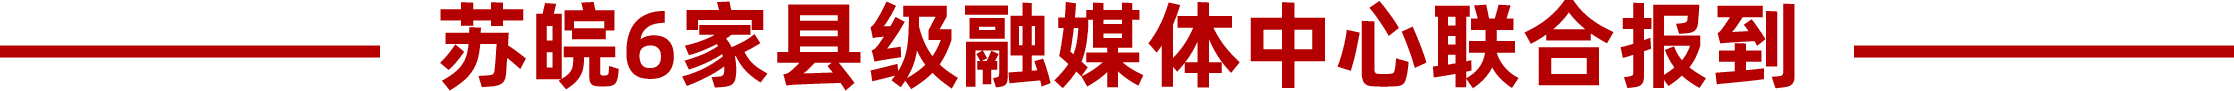
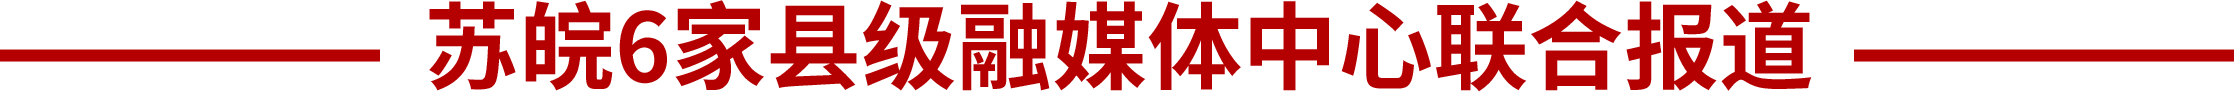
update

Changed region(s): [[0.0, 0.0, 1.0, 0.989], [0.556, 0.967, 0.5868, 0.989]]

diff --git a/h5-app/src/views/Page3.vue b/h5-app/src/views/Page3.vue
@@ -21,7 +21,7 @@
 
     <!-- 提示文字 -->
     <div class="tip-text" v-motion="tipMotion">
-      点击城市名片，开启探索之旅
+      点击城市名片，开启红色之旅
     </div>
 
     <!-- 城市展示区域 -->
@@ -251,6 +251,32 @@ const selectedCityData = ref<typeof citiesData[keyof typeof citiesData] | null>(
 
 
 
+// 动态导入poster图片
+const posterImages = {
+  'yizheng-1': new URL('@/assets/yz/04/video/仪征/1.png', import.meta.url).href,
+  'yizheng-2': new URL('@/assets/yz/04/video/仪征/2.png', import.meta.url).href,
+  'yizheng-3': new URL('@/assets/yz/04/video/仪征/3.png', import.meta.url).href,
+  'yizheng-4': new URL('@/assets/yz/04/video/仪征/4.png', import.meta.url).href,
+  'yizheng-5': new URL('@/assets/yz/04/video/仪征/5.png', import.meta.url).href,
+  'laian-1': new URL('@/assets/yz/04/video/来安/1.png', import.meta.url).href,
+  'laian-2': new URL('@/assets/yz/04/video/来安/2.png', import.meta.url).href,
+  'laian-3': new URL('@/assets/yz/04/video/来安/3.png', import.meta.url).href,
+  'liuhe-1': new URL('@/assets/yz/04/video/六合/1.png', import.meta.url).href,
+  'liuhe-2': new URL('@/assets/yz/04/video/六合/2.png', import.meta.url).href,
+  'liuhe-3': new URL('@/assets/yz/04/video/六合/3.png', import.meta.url).href,
+  'jinhu-1': new URL('@/assets/yz/04/video/金湖/1.png', import.meta.url).href,
+  'dingyuan-1': new URL('@/assets/yz/04/video/定远/1.png', import.meta.url).href,
+  'dingyuan-2': new URL('@/assets/yz/04/video/定远/2.png', import.meta.url).href,
+  'dingyuan-3': new URL('@/assets/yz/04/video/定远/3.png', import.meta.url).href,
+  'xuyi-1': new URL('@/assets/yz/04/video/盱眙/1.png', import.meta.url).href,
+  'xuyi-2': new URL('@/assets/yz/04/video/盱眙/2.png', import.meta.url).href,
+  'xuyi-3': new URL('@/assets/yz/04/video/盱眙/3.png', import.meta.url).href,
+  'xuyi-4': new URL('@/assets/yz/04/video/盱眙/4.png', import.meta.url).href,
+  'xuyi-5': new URL('@/assets/yz/04/video/盱眙/5.png', import.meta.url).href,
+  'xuyi-6': new URL('@/assets/yz/04/video/盱眙/6.png', import.meta.url).href,
+  'xuyi-7': new URL('@/assets/yz/04/video/盱眙/7.png', import.meta.url).href,
+}
+
 // 城市数据
 const citiesData = {
   yizheng: {
@@ -258,30 +284,44 @@ const citiesData = {
     historyItems: [
       {
         description: '1939年11月，新四军苏皖支队抵达仪征，在陈集镇沙集村成立中共仪征县委。1940年4月，仪征县抗日民主政府在月塘曹集成立，建立5个区、1个办事处和50多个乡政权。在津浦路东省委领导下，广泛动员群众，组织农抗会、青年队、民兵等地方武装，扩大和巩固抗日根据地，成为抗战的坚强堡垒。',
-        title: '仪征政权立',
+        title: '建立党政军组织',
         src: 'https://qiniuyun.lqcode.fun/yzdst/%E4%BB%AA%E5%BE%81/%E6%97%A0logo%20%E4%BB%AA%E5%BE%81%E7%AF%87%EF%BC%88%E4%B8%80%EF%BC%89%EF%BC%9A%E5%BB%BA%E7%AB%8B%E5%85%9A%E6%94%BF%E5%86%9B%E7%BB%84%E7%BB%87%20%E6%9E%84%E7%AD%91%E6%8A%97%E6%88%98%E5%9D%9A%201.mp4',
+		poster: posterImages['yizheng-1']
       },
 	  {
         description: '1939年12月18日，日伪军800余人分三路合击月塘集。苏皖支队避其锋芒，主力转移至移居集隐蔽。傍晚利用地形和群众支援，反击压缩敌人至北大庙，激战三小时收复月塘。此战歼敌90余人，缴获枪械40余支，极大鼓舞军民斗志，成为新四军在仪征的里程碑之战。',
         title: '月塘反击战',
         src: 'https://qiniuyun.lqcode.fun/yzdst/%E4%BB%AA%E5%BE%81/%E6%97%A0logo%20%E4%BB%AA%E5%BE%81%E7%AF%87%EF%BC%88%E4%BA%8C%EF%BC%89%EF%BC%9A%E9%A6%96%E6%88%98%E9%9C%87%E5%AF%92%E5%A4%9C%20%E6%9C%88%E5%A1%98%E4%BF%9D%E5%8D%AB%E6%88%98%E7%82%B9%E7%87%83%201.mp4',
-      },
+		poster: posterImages['yizheng-2']
+	},
 	  {
         description: '1941年春，日军推行“囚笼政策”，修筑公路工事，企图分割根据地。新四军二师多路出击，攻克谢集、刘集等据点，伏击援敌。4月16-17日，运用“梅花桩战术”在金牛山重创日伪军，歼敌500余人，缴获机枪、掷弹筒等武器，粉碎大规模扫荡，极大地增强了军民坚持敌后抗日斗争的信心。',
-        title: '金牛山战斗',
+        title: '打破“囚笼”包围圈',
         src: 'https://qiniuyun.lqcode.fun/yzdst/%E4%BB%AA%E5%BE%81/%E6%97%A0logo%20%E4%BB%AA%E5%BE%81%E7%AF%87%EF%BC%88%E4%B8%89%EF%BC%89%EF%BC%9A%E5%8F%8D%E7%82%B9%E7%BA%BF%E4%BD%9C%E6%88%98%20%E6%89%93%E7%A0%B4%E2%80%9C%E5%9B%9A%E7%AC%BC%E2%80%9D%E5%8C%85%201.mp4',
-      },
+		poster: posterImages['yizheng-3']
+	},
 	  {
         description: '月塘位于淮南根据地中心，成为华中局与苏南、上海地下党交通枢纽，三条秘密线路贯通南北，以茶食商行等为掩护，护送近千名干部、进步青年和领导人安全往来，转运重要文件和军需物资，从未发生问题，成为抗战时期重要生命线。',
         title: '秘密交通线',
         src: 'https://qiniuyun.lqcode.fun/yzdst/%E4%BB%AA%E5%BE%81/%E6%97%A0logo%20%E4%BB%AA%E5%BE%81%E7%AF%87%EF%BC%88%E5%9B%9B%EF%BC%89%EF%BC%9A%20%E6%9A%97%E7%BA%BF%E8%BF%9E%E5%B1%B1%E6%B2%B3%20%E5%9C%B0%E4%B8%8B%E4%BA%A4%E9%80%9A%E7%BA%BF%E6%B2%9F%201.mp4',
-      },
+		poster: posterImages['yizheng-4']
+	},
 	  {
         description: '1939年，曹兰田、陆毅等组建曹集民兵，从农抗会发展为地方武装，配合主力作战，破坏交通桥梁，掩护群众转移。两年内参加战斗50余次，歼敌100余人，逮捕叛徒特务20多人。1942年，陆毅获淮南路东英模大会嘉奖，曹集民兵被誉为“名闻淮南路东的民兵英雄集体”，其爱国精神永载史册。',
         title: '民兵英雄誉',
         src: 'https://qiniuyun.lqcode.fun/yzdst/%E4%BB%AA%E5%BE%81/%E6%97%A0logo%20%E4%BB%AA%E5%BE%81%E7%AF%87%EF%BC%88%E4%BA%94%EF%BC%89%EF%BC%9A%E7%A1%9D%E7%83%9F%E7%A0%BA%E7%AD%8B%E9%AA%A8%20%E6%9B%B9%E9%9B%86%E6%B0%91%E5%85%B5%E9%93%B8%E5%B0%B1%E4%B8%8D%201.mp4',
-      },
-    ]
+		poster: posterImages['yizheng-5']
+	},
+    ],
+	creativeTeam: {
+		totalDirector: "张强",
+		totalPlanner: ["窦忠根", "豆维啸"],
+		totalProducer: "由方举",
+		producer: ["万言", "尹书冬", "巫蓉", "罗海蛟", "唐超"],
+		director: ["赵广俊", "蒋宇"],
+		visual: ["赵亦明", "宰儒宇", "王冬梅"],
+		promotion: ["徐昊晨", "王小丹"]
+	}
   },
   laian: {
     name: '来安',
@@ -290,18 +330,30 @@ const citiesData = {
         description: '罗炳辉将军率新四军三打来安城，首创"梅花桩战术"等经典战法，以少胜多巩固皖东抗日根据地，彰显我军卓越军事智慧与抗战精神。',
         title: '三打来安城',
         src: 'https://qiniuyun.lqcode.fun/yzdst/%E6%9D%A5%E5%AE%89/%E6%9D%A5%E5%AE%89%EF%BC%9A%E7%BD%97%E7%82%B3%E8%BE%89%20%E5%96%84%E7%94%A8%E9%AA%91%E5%85%B5%E7%9A%84%E6%8A%97%E6%97%A5%E5%90%8D%E5%B0%86%EF%BC%88%E6%9C%89%E5%AD%97%E7%89%88%EF%BC%89%201.mp4',
-      },
+		poster: posterImages['laian-1']
+	},
 	  {
         description: '半塔保卫战是新四军以少胜多、固守待援的经典战例。1940年春，新四军2000余官兵顽强抵抗国民党万余兵力进攻，最终配合东援主力取得胜利，为华中抗日根据地巩固发展奠定重要基础。',
         title: '半塔保卫战',
         src: 'https://qiniuyun.lqcode.fun/yzdst/%E6%9D%A5%E5%AE%89/%E6%9D%A5%E5%AE%89%EF%BC%9A%E6%96%B0%E5%9B%9B%E5%86%9B%E5%9B%BA%E5%AE%88%E5%BE%85%E6%8F%B4%E7%9A%84%E7%BB%8F%E5%85%B8%E8%8C%83%E4%BE%8B%20%E5%8D%8A%E5%A1%94%E4%BF%9D%E5%8D%AB%E6%88%98%EF%BC%88%E6%9C%89%E5%AD%97%E7%89%88%EF%BC%89%201.mp4',
-      },
+		poster: posterImages['laian-2']  
+	},
 	  {
         description: '皖东女英雄侯静波，19岁壮烈牺牲。她宣传抗日、发动群众，被叛徒出卖后坚贞不屈，英勇就义。其精神永存，家乡静波村以她命名。',
         title: '英雄侯静波',
         src: 'https://qiniuyun.lqcode.fun/yzdst/%E6%9D%A5%E5%AE%89/%E6%9D%A5%E5%AE%89%EF%BC%9A%E4%BE%AF%E9%9D%99%E6%B3%A2%20%E7%9A%96%E4%B8%9C%E5%A4%A7%E5%9C%B0%E7%9A%84%E2%80%9C%E5%88%98%E8%83%A1%E5%85%B0%E2%80%9D%EF%BC%88%E6%9C%89%E5%AD%97%E7%89%88%EF%BC%89%201.mp4',
-      },
-    ]
+		poster: posterImages['laian-3']
+	},
+    ],
+	creativeTeam: {
+		totalDirector: "张强",
+		totalPlanner: ["窦忠根", "豆维啸"],
+		totalProducer: "由方举",
+		producer: ["钟腾飞", "胡月", "马驰", "王梅梅", "龙晨"],
+		director: ["马驰", "王梅梅", "龙晨"],
+		visual: ["赵亦明", "宰儒宇", "王冬梅"],
+		promotion: ["马驰", "王梅梅", "龙晨"]
+	}
   },
   liuhe: {
     name: '六合',
@@ -310,18 +362,30 @@ const citiesData = {
         description: '六合竹镇抗日民主政府纪念馆见证烽火岁月：新四军英勇作战，统一战线凝聚民心，革命精神永续传承。',
         title: '竹镇纪念馆',
         src: 'https://qiniuyun.lqcode.fun/yzdst/%E5%85%AD%E5%90%88/%E4%B9%8B%E4%B8%80%E2%80%94%E2%80%94%E7%AB%B9%E9%95%87%E6%8A%97%E6%97%A5%E6%B0%91%E4%B8%BB%E6%94%BF%E5%BA%9C%201.mp4',
-      },
+		poster: posterImages['liuhe-1']
+	},
 	  {
         description: '烽火硝烟中诞生的竹镇派出所，是新四军在淮南路东设立的首个公安机构。80多年来，“三不走”精神薪火相传，如今民警以新“三不走”守护百姓，续写红色基因的时代新篇。',
         title: '精神薪火传',
         src: 'https://qiniuyun.lqcode.fun/yzdst/%E5%85%AD%E5%90%88/%E4%B9%8B%E4%BA%8C%E2%80%94%E2%80%94%E7%AB%B9%E9%95%87%E6%96%B0%E5%9B%9B%E5%86%9B%E6%B4%BE%E5%87%BA%E6%89%80%201.mp4',
-      },
+		poster: posterImages['liuhe-2']  
+	},
 	  {
         description: '《归队》讲述抗战英烈张凤鸣迁葬桂子山陵园，与战友团聚。守陵人与家属共同守护英雄记忆，传承牺牲精神，见证硝烟散尽、忠魂永存。',
         title: '忠魂归队颂',
         src: 'https://qiniuyun.lqcode.fun/yzdst/%E5%85%AD%E5%90%88/%E4%B9%8B%E4%B8%89%E2%80%94%E2%80%94%E5%BD%92%E9%98%9F%201.mp4',
-      },
-    ]
+		poster: posterImages['liuhe-3']
+	},
+    ],
+	creativeTeam: {
+		totalDirector: "张强",
+		totalPlanner: ["窦忠根", "豆维啸"],
+		totalProducer: "由方举",
+		producer: ["武峥嵘", "何屹", "薛晓云", "唐宏亮", "张露", "游鹏", "杜森", "董艺旋"],
+		director: ["张雅茜", "郑蓉蓉", "许燕", "赵君"],
+		visual: ["赵亦明", "宰儒宇", "王冬梅"],
+		promotion: ["陆欣", "韩聪聪", "何义红"]
+	}
   },
   jinhu: {
     name: '金湖',
@@ -330,8 +394,18 @@ const citiesData = {
         description: '80多年前，军工英雄吴运铎在金湖艰苦条件下，带领群众自制弹药，身负重伤仍坚持科研，成功研制枪榴弹助力抗战，被誉为中国“保尔·柯察金”。其精神至今激励后人。',
         title: '军工英雄颂',
         src: 'https://qiniuyun.lqcode.fun/yzdst/%E9%87%91%E6%B9%96/%E9%87%91%E6%B9%96%201.mp4',
-      },
-    ]
+		poster: posterImages['jinhu-1']
+	},
+    ],
+	creativeTeam: {
+		totalDirector: "张强",
+		totalPlanner: ["窦忠根", "豆维啸"],
+		totalProducer: "由方举",
+		producer: ["赵建中", "王劲枫"],
+		director: ["唐伟"],
+		visual: ["赵亦明", "宰儒宇", "王冬梅"],
+		promotion: ["刘锦", "葛婷婷", "倪率程", "田禾"]
+	}
   },
   dingyuan: {
     name: '定远',
@@ -340,18 +414,30 @@ const citiesData = {
         description: '80 多年前，面对国民党顽固派进攻，刘少奇、徐海东等指挥新四军打响定远自卫反击战。将士们协同作战 7 天获胜，建华中首个县级抗日民主政权，为抗战胜利筑牢屏障，精神永垂。',
         title: '定远自卫战',
         src: 'https://qiniuyun.lqcode.fun/yzdst/%E5%AE%9A%E8%BF%9C/%E7%83%BD%E7%81%AB%E7%AC%AC%E4%BA%8C%E5%B8%88%E5%AE%89%E5%BE%BD%E5%AE%9A%E8%BF%9C%E7%AF%87%EF%BC%88%E4%B8%80%EF%BC%89%E5%BE%90%E6%B5%B7%E4%B8%9C%EF%BC%9A%E5%AF%B9%E4%B8%AD%E5%9B%BD%E9%9D%A9%E5%91%BD%E6%9C%89%E5%A4%A7%E5%8A%9F%E7%9A%84%E4%BA%BA%201.mp4',
-      },
+		poster: posterImages['dingyuan-1']
+	},
 	  {
         description: '80 多年前，“虎将” 徐海东带病赴华中，任新四军江北指挥部副指挥，指挥周家岗反 “扫荡” 首胜日军。他 9 次负伤仍坚守，以忠诚勇猛书写传奇，激励后人传承革命精神。',
         title: '虎将徐海东',
         src: 'https://qiniuyun.lqcode.fun/yzdst/%E5%AE%9A%E8%BF%9C/%E7%83%BD%E7%81%AB%E7%AC%AC%E4%BA%8C%E5%B8%88%E5%AE%89%E5%BE%BD%E5%AE%9A%E8%BF%9C%E7%AF%87%EF%BC%88%E4%BA%8C%EF%BC%89%E7%AD%91%E7%89%A2%E5%8D%8E%E4%B8%AD%E6%8A%97%E6%97%A5%E6%A0%B9%E6%8D%AE%E5%9C%B0%E7%9A%84%E5%9D%9A%E5%AE%9E%E5%B1%8F%E9%9A%9C%E2%80%94%E2%80%94%E5%AE%9A%E8%BF%9C%E8%87%AA%E5%8D%AB%E5%8F%8D%E5%87%BB%E6%88%98%201.mp4',
-      },
+		poster: posterImages['dingyuan-2']
+	},
 	  {
         description: '80 多年前，定远作为抗日根据地核心，新四军二师浴血奋战。王小庙安葬 1200 余名无名烈士，如今 “寻亲队伍” 与学界为其寻名，英烈精神永被铭记。',
         title: '英烈永铭记',
         src: 'https://qiniuyun.lqcode.fun/yzdst/%E5%AE%9A%E8%BF%9C/%E7%83%BD%E7%81%AB%E7%AC%AC%E4%BA%8C%E5%B8%88%E5%AE%89%E5%BE%BD%E5%AE%9A%E8%BF%9C%E7%AF%87%EF%BC%88%E4%B8%89%EF%BC%89174%E5%BA%A7%E5%A2%93%E7%A2%91%E6%97%A0%E5%A3%B0%EF%BC%8C1200%E5%90%8D%E8%8B%B1%E9%AD%82%E9%95%BF%E7%9C%A0%E2%80%94%E2%80%94%E8%AE%BF%E7%8E%8B%E5%B0%8F%E5%BA%99%E6%97%A0%E5%90%8D%E7%83%88%E5%A3%AB%E9%99%B5%E5%9B%AD%201.mp4',
-      },
-    ]
+		poster: posterImages['dingyuan-3']
+	},
+    ],
+	creativeTeam: {
+		totalDirector: "张强",
+		totalPlanner: ["窦忠根", "豆维啸"],
+		totalProducer: "由方举",
+		producer: ["王天庭", "王倩", "谢燕林", "韩梽源", "曹明哲"],
+		director: ["韩梽源", "曹明哲"],
+		visual: ["赵亦明", "宰儒宇", "王冬梅"],
+		promotion: ["韩梽源", "曹明哲"]
+	}
   },
   xuyi: {
     name: '盱眙',
@@ -360,38 +446,54 @@ const citiesData = {
         description: '1943年1月，新四军军部移驻黄花塘两年零八个月，作为华中抗战指挥中心，粉碎敌人进攻、壮大队伍、开辟根据地，为抗战胜利贡献卓著。',
         title: '华中指挥部',
         src: 'https://qiniuyun.lqcode.fun/yzdst/%E7%9B%B1%E7%9C%99/%E6%9C%89%E7%89%87%E5%A4%B4%20%20%E6%96%B0%E5%9B%9B%E5%86%9B%E7%9A%84%E7%83%BD%E7%81%AB%E5%B2%81%E6%9C%88%201.mp4',
-      },
+      	poster: posterImages['xuyi-1']
+		},
 	  {
         description: '陈毅在黄花塘工作期间，恰逢房东家娶亲，因条件艰苦，以一块红布作为结婚贺礼相赠，该红布被房东家保存近30多年后，于2003年捐赠给纪念馆，成为新四军与老百姓鱼水深情的见证。',
         title: '红布寄深情',
         src: 'https://qiniuyun.lqcode.fun/yzdst/%E7%9B%B1%E7%9C%99/%E6%9C%89%E7%89%87%E5%A4%B4%20%20%E9%97%A8%E5%B8%98%E7%9A%84%E6%95%85%E4%BA%8B%201.mp4',
-      },
+		poster: posterImages['xuyi-2']
+	},
 	  {
         description: '黄花塘原名黄昏塘，因景致引“战地黄花分外香”改名，军部迁此因抗战形势、有利地理及好群众基础，驻扎两年零八个月后迁淮阴再北上山东。',
         title: '黄花塘之名',
         src: 'https://qiniuyun.lqcode.fun/yzdst/%E7%9B%B1%E7%9C%99/%E6%9C%89%E7%89%87%E5%A4%B4%20%20%E9%BB%84%E8%8A%B1%E5%A1%98%E7%9A%84%E6%88%98%E7%95%A5%E5%9C%B0%E4%BD%8D%201.mp4',
-      },
+		poster: posterImages['xuyi-3']
+	},
 	  {
         description: '抗战时期，盱眙群众积极拥护新四军，1943至1944年自然灾害严重，仍为新四军送大量粮食、烧草；新四军通过制定《拥政爱民公约》、开展“双拥”活动及遵守“五不走”原则，与盱眙人民建立起鱼水深情。',
         title: '鱼水情谊深',
         src: 'https://qiniuyun.lqcode.fun/yzdst/%E7%9B%B1%E7%9C%99/%E6%9C%89%E7%89%87%E5%A4%B4%20%20%E6%96%B0%E5%9B%9B%E5%86%9B%E5%85%AC%E5%B8%83%E6%8B%A5%E6%94%BF%E7%88%B1%E6%B0%91%E5%85%AC%E7%BA%A6%201.mp4',
-      },
+		poster: posterImages['xuyi-4']
+	},
 	  {
         description: '1943年春，新四军文艺战士刘鹏为《白菜谣》谱曲，歌曲传唱华中根据地，彰显军民鱼水情与抗敌决心；同年年底，他高烧40多度仍坚持军部慰问演出，后因牙疳缺医少药以身殉职，年仅16岁，《白菜谣》至今仍被传唱。',
         title: '白菜谣永传',
         src: 'https://qiniuyun.lqcode.fun/yzdst/%E7%9B%B1%E7%9C%99/%E6%9C%89%E7%89%87%E5%A4%B4%20%20%E5%BD%93%E5%85%B5%E8%A6%81%E5%BD%93%E6%96%B0%E5%9B%9B%E5%86%9B%201.mp4',
-      },
+		poster: posterImages['xuyi-5']
+	},
       {
         description: '抗战期间，新四军作战科科长之女因母亲无奶水，由黄花塘乳娘一家家喂养长大。建国后，其女谭晓雯多次返乡感恩，“百家奶难忘黄花塘”的故事至今流传。',
         title: '百家奶情念',
         src: 'https://qiniuyun.lqcode.fun/yzdst/%E7%9B%B1%E7%9C%99/%E6%9C%89%E7%89%87%E5%A4%B4%20%20%E9%BB%84%E8%8A%B1%E5%A1%98%E4%B9%B3%E5%A8%98%201.mp4',
-      },
+		poster: posterImages['xuyi-6']
+	},
       {
         description: '华中局部反攻时，盱眙涌现参军热潮，有“一母送四子”的真实故事；1940至1945年，盱眙4000多名热血儿女参加新四军，全县近八成革命烈士为抗战时期牺牲的相关人员，这源于军民互当亲人的深厚情谊。',
         title: '一母送四子',
         src: 'https://qiniuyun.lqcode.fun/yzdst/%E7%9B%B1%E7%9C%99/%E6%9C%89%E7%89%87%E5%A4%B4%20%20%E6%8B%A5%E5%86%9B%E8%BF%90%E5%8A%A8%201.mp4',
-      },
-    ]
+		poster: posterImages['xuyi-7']
+		},
+    ],
+	creativeTeam: {
+		totalDirector: "张强",
+		totalPlanner: ["窦忠根", "豆维啸"],
+		totalProducer: "由方举",
+		producer: ["贾战军", "王金波", "王礼富"],
+		director: ["陈君", "狄晨明", "孟凡婷", "陈帅"],
+		visual: ["赵亦明", "宰儒宇", "王冬梅"],
+		promotion: ["余露露", "李燕"]
+	}
   }
 }
 
